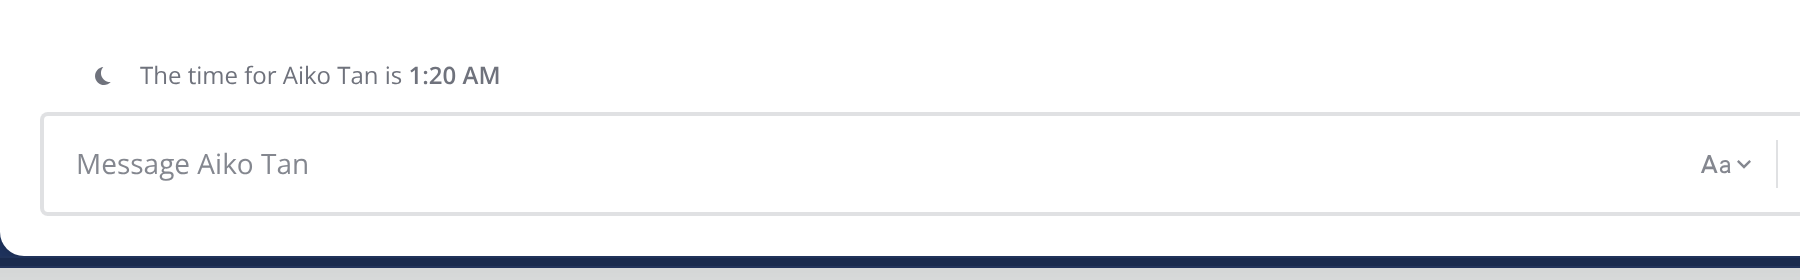
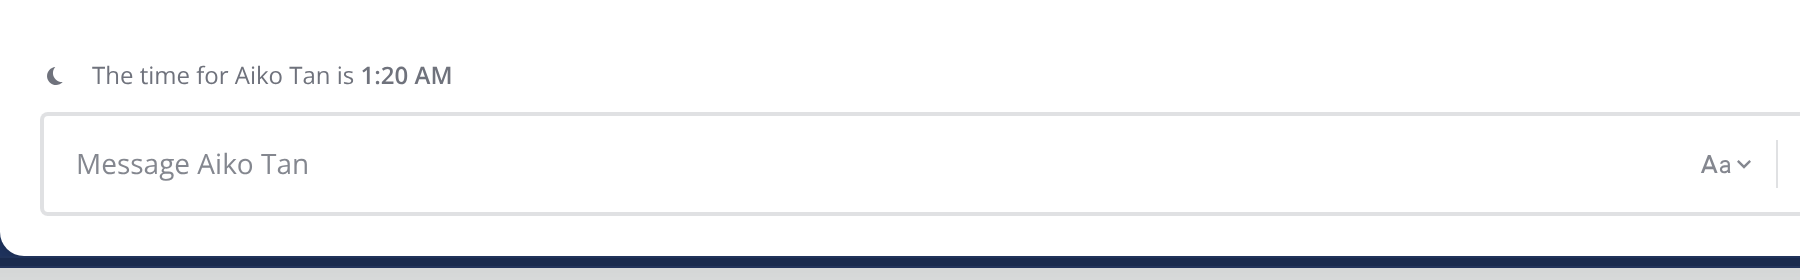
Left-align the desktop DM notice with the message input
The notice sits inside the composer wrapper, which already pads the sides, so
drop its own horizontal padding. DM screenshots retaken.

Claude-Session: https://claude.ai/code/session_01DxJehdH2u6bRBey2KVCRaq

Changed region(s): [[0.0, 0.2286, 0.28, 0.3143]]

diff --git a/src/pages/prototypes/working-hours/WorkingHours.module.scss b/src/pages/prototypes/working-hours/WorkingHours.module.scss
@@ -402,7 +402,8 @@
   display: flex;
   align-items: center;
   gap: var(--spacing-s);
-  padding: var(--spacing-s) var(--spacing-xxl);
+  // Sits inside the composer wrapper, which already supplies the side padding.
+  padding: var(--spacing-s) 0;
   font-size: var(--font-size-75);
   line-height: var(--line-height-75);
   color: rgba(var(--center-channel-color-rgb), 0.75);
